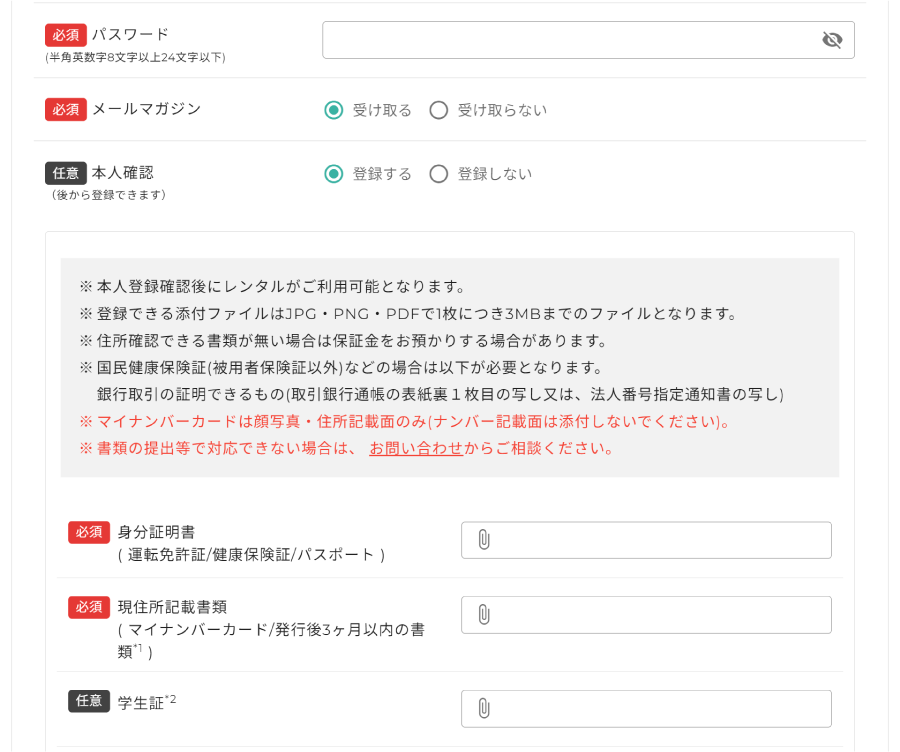
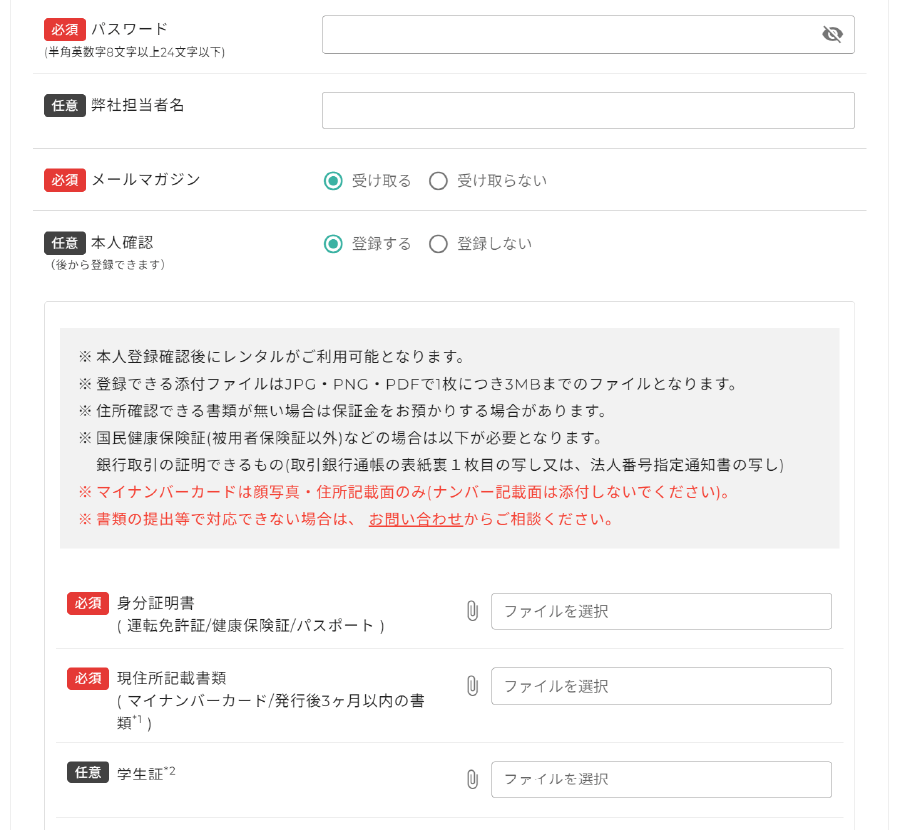
[fix] レンタル手順のWEB会員登録のスクショ画像差し替え

diff --git a/pages/guide/rental-flow.vue b/pages/guide/rental-flow.vue
@@ -46,7 +46,7 @@
               guideline-img="/img/guide/rental_flow/flow_web_member_register.png" 
               guideline-alt="Web会員登録のイメージ"
               attr-width="900" 
-              attr-height="752"
+              attr-height="830"
             ></guideline-image>
             <v-row class="mt-10">
               <v-col cols="12">
